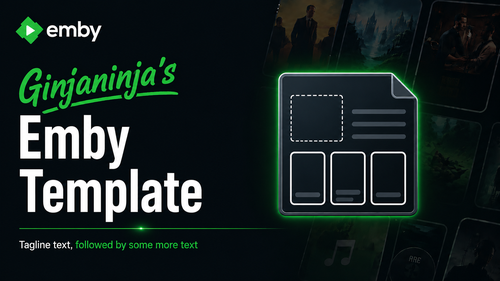
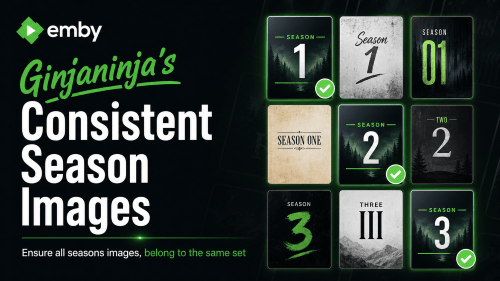
Readme and thumb

diff --git a/src/ConsistentTVSeasonImages/Services/ProviderImageHelperService.cs b/src/ConsistentTVSeasonImages/Services/ProviderImageHelperService.cs
@@ -62,12 +62,12 @@ namespace ConsistentTVSeasonImages.Services
         private const int MaximumProviderAttempts = 3;
         private readonly ILibraryManager library; private readonly IProviderManager providers; private readonly IFileSystem fileSystem; private readonly IImageProcessor imageProcessor; private readonly IServerConfigurationManager configuration; private readonly IJsonSerializer json; private readonly ILogger logger; private readonly string cachePath;
         public ProviderImageHelperService(ILibraryManager library, IProviderManager providers, IFileSystem fileSystem, IImageProcessor imageProcessor, IServerConfigurationManager configuration, IApplicationPaths applicationPaths, IJsonSerializer json, ILogManager logs)
-        { this.library = library; this.providers = providers; this.fileSystem = fileSystem; this.imageProcessor = imageProcessor; this.configuration = configuration; this.json = json; cachePath = Path.Combine(applicationPaths.CachePath, "consistent-tv-season-images", "provider-images"); logger = Plugin.Logger ?? logs.GetLogger("Consistent TV Season Images"); logger.Info("ProviderImageHelperService instantiated. Provider cache={0}, LifetimeHours={1}", cachePath, CacheLifetime.TotalHours); }
+        { this.library = library; this.providers = providers; this.fileSystem = fileSystem; this.imageProcessor = imageProcessor; this.configuration = configuration; this.json = json; cachePath = Path.Combine(applicationPaths.CachePath, "consistent-tv-season-images", "provider-images"); logger = Plugin.Logger ?? logs.GetLogger("Consistent TV Season Images"); logger.Debug("ProviderImageHelperService instantiated. Provider cache={0}, LifetimeHours={1}", cachePath, CacheLifetime.TotalHours); }
 
         public object Get(DiscoverRequest request)
         {
             var filter = (request.Filter ?? "all").ToLowerInvariant(); var search = request.Search ?? string.Empty;
-            logger.Info("Discover started. Filter={0}, Search={1}", filter, search);
+            logger.Debug("Discover started. Filter={0}, Search={1}", filter, search);
             try
             {
                 var queried = library.GetItemList(new InternalItemsQuery { IncludeItemTypes = new[] { typeof(Series).Name }, Recursive = true, IsVirtualItem = false, HasPath = true }).OfType<Series>().ToList();
@@ -76,7 +76,7 @@ namespace ConsistentTVSeasonImages.Services
                 var result = queried.Where(s => !string.IsNullOrEmpty(s.Path) && string.IsNullOrEmpty(s.ExternalId) && s.Name.IndexOf(search, StringComparison.OrdinalIgnoreCase) >= 0)
                     .Select(s => { var seasons = GetSeasons(s); return new ShowResult { Id = s.GetClientId(), Name = s.Name, MissingPoster = seasons.Any(x => !x.HasImage(ImageType.Primary, 0)), MissingBanner = seasons.Any(x => !x.HasImage(ImageType.Banner, 0)) }; })
                     .Where(s => filter == "all" || filter == "missingposters" && s.MissingPoster || filter == "missingbanners" && s.MissingBanner).OrderBy(s => s.Name).ToList();
-                logger.Info("Discover completed. Queried={0}, Excluded={1}, Returned={2}", queried.Count, excluded.Count, result.Count);
+                logger.Debug("Discover completed. Queried={0}, Excluded={1}, Returned={2}", queried.Count, excluded.Count, result.Count);
                 return result;
             }
             catch (Exception ex) { logger.ErrorException("Discover failed. Filter={0}, Search={1}", ex, filter, search); throw; }
@@ -86,19 +86,19 @@ namespace ConsistentTVSeasonImages.Services
         {
             var fetchTimer = Stopwatch.StartNew();
             var correlationId = Guid.NewGuid().ToString("N").Substring(0, 12);
-            logger.Info("Fetch started. CorrelationId={0}, SeriesId={1}", correlationId, request.SeriesId);
+            logger.Debug("Fetch started. CorrelationId={0}, SeriesId={1}", correlationId, request.SeriesId);
             try
             {
                 var series = library.GetItemById(request.SeriesId) as Series; if (series == null) throw new ArgumentException("Series not found.");
                 var seasons = GetSeasons(series).OrderBy(s => s.IndexNumber).ToArray();
-                logger.Info("Fetch resolved series. Name={0}, Path={1}, Seasons={2}, ProviderIds={3}", series.Name, series.Path ?? "(null)", seasons.Length, string.Join(",", series.ProviderIds.Select(x => x.Key + "=" + x.Value)));
+                logger.Debug("Fetch resolved series. Name={0}, Path={1}, Seasons={2}, ProviderIds={3}", series.Name, series.Path ?? "(null)", seasons.Length, string.Join(",", series.ProviderIds.Select(x => x.Key + "=" + x.Value)));
                 LogAvailableProviders("Series", series);
                 var result = new FetchResult { SeriesId = request.SeriesId, Name = series.Name, CorrelationId = correlationId, Seasons = new List<SeasonResult>() };
                 var cacheHits = 0; var cacheMisses = 0; var providerMilliseconds = 0L;
                 foreach (var season in seasons)
                 {
                     var seasonTimer = Stopwatch.StartNew();
-                    logger.Info("Fetch season identity. Season={0}, Id={1}, SeriesId={2}, ProviderIds={3}, ImageInfos={4}", season.Name, season.GetClientId(), season.SeriesId, string.Join(",", season.ProviderIds.Select(x => x.Key + "=" + x.Value)), string.Join(";", season.ImageInfos.Select(x => x.Type + "=" + x.Path)));
+                    logger.Debug("Fetch season identity. Season={0}, Id={1}, SeriesId={2}, ProviderIds={3}, ImageInfos={4}", season.Name, season.GetClientId(), season.SeriesId, string.Join(",", season.ProviderIds.Select(x => x.Key + "=" + x.Value)), string.Join(";", season.ImageInfos.Select(x => x.Type + "=" + x.Path)));
                     LogAvailableProviders("Season", season);
                     var fetched = await GetRemoteImages(season, request.IncludeAllLanguages, correlationId).ConfigureAwait(false);
                     cacheHits += fetched.CacheHits; cacheMisses += fetched.CacheMisses; providerMilliseconds += fetched.ProviderMilliseconds;
@@ -106,12 +106,12 @@ namespace ConsistentTVSeasonImages.Services
                     var banners = fetched.Images.Where(x => x.Type == ImageType.Banner).ToList();
                     var posterResults = Map(posters, ImageType.Primary); var bannerResults = Map(banners, ImageType.Banner);
                     posterResults = DistinctImages(posterResults); bannerResults = DistinctImages(bannerResults);
-                    logger.Info("Fetch season completed. Season={0}, Id={1}, HasCurrentPoster={2}, HasCurrentBanner={3}, Posters={4}, Banners={5}, ElapsedMs={6}, CacheHits={7}, CacheMisses={8}", season.Name, season.GetClientId(), season.HasImage(ImageType.Primary, 0), season.HasImage(ImageType.Banner, 0), posterResults.Count, bannerResults.Count, seasonTimer.ElapsedMilliseconds, fetched.CacheHits, fetched.CacheMisses);
+                    logger.Debug("Fetch season completed. Season={0}, Id={1}, HasCurrentPoster={2}, HasCurrentBanner={3}, Posters={4}, Banners={5}, ElapsedMs={6}, CacheHits={7}, CacheMisses={8}", season.Name, season.GetClientId(), season.HasImage(ImageType.Primary, 0), season.HasImage(ImageType.Banner, 0), posterResults.Count, bannerResults.Count, seasonTimer.ElapsedMilliseconds, fetched.CacheHits, fetched.CacheMisses);
                     LogProviderCounts(season, posterResults.Concat(bannerResults));
                     var seasonPoster = LocalImageUrl(season, ImageType.Primary); var seasonBanner = LocalImageUrl(season, ImageType.Banner);
                     var posterTag = ImageTag(season, ImageType.Primary); var bannerTag = ImageTag(season, ImageType.Banner);
-                    logger.Info("Current Emby image URL. Season={0}, Id={1}, Type=Primary, Url={2}", season.Name, season.GetClientId(), CurrentImageUrl(season, ImageType.Primary, posterTag) ?? "(none)");
-                    logger.Info("Current Emby image URL. Season={0}, Id={1}, Type=Banner, Url={2}", season.Name, season.GetClientId(), CurrentImageUrl(season, ImageType.Banner, bannerTag) ?? "(none)");
+                    logger.Debug("Current Emby image URL. Season={0}, Id={1}, Type=Primary, Url={2}", season.Name, season.GetClientId(), CurrentImageUrl(season, ImageType.Primary, posterTag) ?? "(none)");
+                    logger.Debug("Current Emby image URL. Season={0}, Id={1}, Type=Banner, Url={2}", season.Name, season.GetClientId(), CurrentImageUrl(season, ImageType.Banner, bannerTag) ?? "(none)");
                     result.Seasons.Add(new SeasonResult { Id = season.GetClientId(), Name = season.Name, Number = season.IndexNumber, CurrentPoster = seasonPoster, CurrentBanner = seasonBanner, CurrentPosterItemId = seasonPoster == null ? null : season.GetClientId(), CurrentBannerItemId = seasonBanner == null ? null : season.GetClientId(), CurrentPosterTag = posterTag, CurrentBannerTag = bannerTag, Posters = posterResults, Banners = bannerResults, ProviderDiagnostics = fetched.Diagnostics });
                 }
                 logger.Info("Fetch completed. CorrelationId={0}, Series={1}, Seasons={2}, TotalPosters={3}, TotalBanners={4}, ElapsedMs={5}, ProviderElapsedMs={6}, CacheHits={7}, CacheMisses={8}", correlationId, series.Name, result.Seasons.Count, result.Seasons.Sum(x => x.Posters.Count), result.Seasons.Sum(x => x.Banners.Count), fetchTimer.ElapsedMilliseconds, providerMilliseconds, cacheHits, cacheMisses);
@@ -122,14 +122,14 @@ namespace ConsistentTVSeasonImages.Services
 
         public async Task<object> Post(ApplyRequest request)
         {
-            logger.Info("Apply started. SeasonId={0}, ImageType={1}, Url={2}, SourceItemId={3}", request.SeasonId, request.ImageType, request.ImageUrl ?? "(null)", request.SourceItemId ?? "(null)");
-            try { var season = library.GetItemById(request.SeasonId) as Season; if (season == null) throw new ArgumentException("Season not found."); ImageType type; var name = request.ImageType == "Poster" ? "Primary" : request.ImageType; if (!Enum.TryParse(name, true, out type) || type != ImageType.Primary && type != ImageType.Banner) throw new ArgumentException("ImageType must be Poster or Banner."); var source = request.ImageUrl; if (!string.IsNullOrEmpty(request.SourceItemId)) { var sourceItem = library.GetItemById(request.SourceItemId); var sourceInfo = sourceItem?.GetImageInfo(type, 0); if (sourceInfo == null || string.IsNullOrEmpty(sourceInfo.Path) || !fileSystem.FileExists(sourceInfo.Path)) throw new ArgumentException("The selected current source image is unavailable."); source = sourceInfo.Path; logger.Info("Apply resolved local current source. SourceItem={0}, Type={1}, Path={2}", sourceItem.Name, type, source); } else { Uri uri; if (!Uri.TryCreate(source, UriKind.Absolute, out uri) || uri.Scheme != "https" && uri.Scheme != "http") throw new ArgumentException("A valid HTTP(S) image URL is required."); } await providers.SaveImage(season, library.GetLibraryOptions(season), source, type, 0, new long[0], new DirectoryService(logger, fileSystem), true, CancellationToken.None).ConfigureAwait(false); season.UpdateToRepository(ItemUpdateType.ImageUpdate); logger.Info("Apply completed. Season={0}, Id={1}, ImageType={2}", season.Name, request.SeasonId, type); return new ApplyResult { Success = true, SeasonId = request.SeasonId, ImageType = request.ImageType }; }
+            logger.Debug("Apply started. SeasonId={0}, ImageType={1}, Url={2}, SourceItemId={3}", request.SeasonId, request.ImageType, request.ImageUrl ?? "(null)", request.SourceItemId ?? "(null)");
+            try { var season = library.GetItemById(request.SeasonId) as Season; if (season == null) throw new ArgumentException("Season not found."); ImageType type; var name = request.ImageType == "Poster" ? "Primary" : request.ImageType; if (!Enum.TryParse(name, true, out type) || type != ImageType.Primary && type != ImageType.Banner) throw new ArgumentException("ImageType must be Poster or Banner."); var source = request.ImageUrl; if (!string.IsNullOrEmpty(request.SourceItemId)) { var sourceItem = library.GetItemById(request.SourceItemId); var sourceInfo = sourceItem?.GetImageInfo(type, 0); if (sourceInfo == null || string.IsNullOrEmpty(sourceInfo.Path) || !fileSystem.FileExists(sourceInfo.Path)) throw new ArgumentException("The selected current source image is unavailable."); source = sourceInfo.Path; logger.Debug("Apply resolved local current source. SourceItem={0}, Type={1}, Path={2}", sourceItem.Name, type, source); } else { Uri uri; if (!Uri.TryCreate(source, UriKind.Absolute, out uri) || uri.Scheme != "https" && uri.Scheme != "http") throw new ArgumentException("A valid HTTP(S) image URL is required."); } await providers.SaveImage(season, library.GetLibraryOptions(season), source, type, 0, new long[0], new DirectoryService(logger, fileSystem), true, CancellationToken.None).ConfigureAwait(false); season.UpdateToRepository(ItemUpdateType.ImageUpdate); logger.Info("Apply completed. Season={0}, Id={1}, ImageType={2}", season.Name, request.SeasonId, type); return new ApplyResult { Success = true, SeasonId = request.SeasonId, ImageType = request.ImageType }; }
             catch (Exception ex) { logger.ErrorException("Apply failed. SeasonId={0}, ImageType={1}, Url={2}", ex, request.SeasonId, request.ImageType, request.ImageUrl); throw; }
         }
 
         public object Delete(RemoveImageRequest request)
         {
-            logger.Info("Remove image started. SeasonId={0}, ImageType={1}", request.SeasonId, request.ImageType);
+            logger.Debug("Remove image started. SeasonId={0}, ImageType={1}", request.SeasonId, request.ImageType);
             try
             {
                 var season = library.GetItemById(request.SeasonId) as Season;
@@ -176,7 +176,7 @@ namespace ConsistentTVSeasonImages.Services
                 diagnostic.BannerCount = fetched.Images.Count(x => SameProvider(x.ProviderName, diagnostic.Provider) && x.Type == ImageType.Banner);
                 if ((diagnostic.Status == "Success" || diagnostic.Status == "Cached") && diagnostic.PosterCount + diagnostic.BannerCount == 0) { diagnostic.Status = "Empty"; diagnostic.Message = includeAllLanguages ? "Provider returned no images." : "Provider returned no images matching the selected language."; }
             }
-            logger.Info("Provider image aggregation completed. Season={0}, Id={1}, IncludeAllLanguages={2}, EffectiveLanguage={3}, BeforeLanguageFilter={4}, AfterLanguageFilter={5}, ProviderLanguages={6}, Providers={7}, CacheHits={8}, CacheMisses={9}", season.Name, season.GetClientId(), includeAllLanguages, language ?? "(none)", beforeFilter, fetched.Images.Count, providerLanguages, ProviderSummary(fetched.Images), fetched.CacheHits, fetched.CacheMisses);
+            logger.Debug("Provider image aggregation completed. Season={0}, Id={1}, IncludeAllLanguages={2}, EffectiveLanguage={3}, BeforeLanguageFilter={4}, AfterLanguageFilter={5}, ProviderLanguages={6}, Providers={7}, CacheHits={8}, CacheMisses={9}", season.Name, season.GetClientId(), includeAllLanguages, language ?? "(none)", beforeFilter, fetched.Images.Count, providerLanguages, ProviderSummary(fetched.Images), fetched.CacheHits, fetched.CacheMisses);
             return fetched;
         }
         private async Task<ProviderFetchResult> GetRegisteredProviderImages(BaseItem item, MediaBrowser.Model.Configuration.LibraryOptions libraryOptions, Func<IRemoteImageProvider, bool> selector, string selectionName, string correlationId)
@@ -192,7 +192,7 @@ namespace ConsistentTVSeasonImages.Services
             var remoteProviders = registered.Cast<object>().OfType<IRemoteImageProvider>().ToArray();
             logger.Debug("Registered remote-provider inventory. Item={0}, ItemType={1}, Count={2}, Providers={3}", item.Name, item.GetType().FullName, remoteProviders.Length, string.Join(";", remoteProviders.Select(x => x.Name + "|" + x.GetType().FullName)));
             var selectedProviders = remoteProviders.Where(selector).ToArray();
-            logger.Info("Registered image-provider selection. Selection={0}, Item={1}, Matches={2}, Providers={3}", selectionName, item.Name, selectedProviders.Length, string.Join(",", selectedProviders.Select(x => x.Name + "|" + x.GetType().FullName)));
+            logger.Debug("Registered image-provider selection. Selection={0}, Item={1}, Matches={2}, Providers={3}", selectionName, item.Name, selectedProviders.Length, string.Join(",", selectedProviders.Select(x => x.Name + "|" + x.GetType().FullName)));
             foreach (var provider in selectedProviders)
             {
                 ProviderDiagnostic diagnostic = null;
@@ -217,7 +217,7 @@ namespace ConsistentTVSeasonImages.Services
                         {
                             lastError = ex;
                             var transient = IsTransient(ex);
-                            logger.Warn("Provider attempt failed. CorrelationId={0}, Item={1}, Provider={2}, Attempt={3}, Transient={4}, Error={5}", correlationId, item.Name, provider.Name, attempt, transient, FlattenMessage(ex));
+                            logger.Debug("Provider attempt failed. CorrelationId={0}, Item={1}, Provider={2}, Attempt={3}, Transient={4}, Error={5}", correlationId, item.Name, provider.Name, attempt, transient, FlattenMessage(ex));
                             if (!transient || attempt == MaximumProviderAttempts || ex is ProviderCircuitOpenException) break;
                             var retryAfter = TryGetRetryAfterSeconds(ex);
                             await Task.Delay(TimeSpan.FromSeconds(retryAfter.HasValue ? Math.Min(120, Math.Max(1, retryAfter.Value)) : attempt == 1 ? 1 : 3)).ConfigureAwait(false);
@@ -228,7 +228,8 @@ namespace ConsistentTVSeasonImages.Services
                     {
                         result.Images.AddRange(matching); await WriteCache(item, provider, libraryOptions, matching).ConfigureAwait(false);
                         diagnostic.Status = matching.Count == 0 ? "Empty" : "Success"; diagnostic.Message = matching.Count == 0 ? "Provider returned no images." : "Provider responded normally.";
-                        logger.Info("Registered provider invocation completed. CorrelationId={0}, Item={1}, Provider={2}, Results={3}, Attempts={4}, ElapsedMs={5}", correlationId, item.Name, provider.Name, matching.Count, diagnostic.Attempts, timer.ElapsedMilliseconds);
+                        if (diagnostic.Attempts > 1) logger.Info("Provider recovered after retry. CorrelationId={0}, Item={1}, Provider={2}, Results={3}, Attempts={4}, ElapsedMs={5}", correlationId, item.Name, provider.Name, matching.Count, diagnostic.Attempts, timer.ElapsedMilliseconds);
+                        else logger.Debug("Registered provider invocation completed. CorrelationId={0}, Item={1}, Provider={2}, Results={3}, Attempts={4}, ElapsedMs={5}", correlationId, item.Name, provider.Name, matching.Count, diagnostic.Attempts, timer.ElapsedMilliseconds);
                     }
                     else
                     {
@@ -420,12 +421,12 @@ namespace ConsistentTVSeasonImages.Services
         {
             var available = providers.GetRemoteImageProviderInfo(item, library.GetLibraryOptions(item)).ToArray();
             if (available.Length == 0) { logger.Warn("No remote image fetchers registered. ItemKind={0}, Name={1}, Id={2}", itemKind, item.Name, item.GetClientId()); return; }
-            foreach (var provider in available) logger.Info("Remote image fetcher available. ItemKind={0}, Name={1}, Id={2}, Fetcher={3}, Supported={4}", itemKind, item.Name, item.GetClientId(), provider.Name, string.Join(",", provider.SupportedImages));
+            foreach (var provider in available) logger.Debug("Remote image fetcher available. ItemKind={0}, Name={1}, Id={2}, Fetcher={3}, Supported={4}", itemKind, item.Name, item.GetClientId(), provider.Name, string.Join(",", provider.SupportedImages));
         }
         private string ImageTag(BaseItem item, ImageType type) { var info = item.GetImageInfo(type, 0); return info == null ? null : imageProcessor.GetImageCacheTag(item, info); }
         private static string CurrentImageUrl(BaseItem item, ImageType type, string tag) { return item.HasImage(type, 0) ? "/Items/" + item.GetClientId() + "/Images/" + type + "?tag=" + Uri.EscapeDataString(tag ?? string.Empty) + "&quality=90" : null; }
         private static List<ImageResult> DistinctImages(IEnumerable<ImageResult> images) { return images.Where(x => !string.IsNullOrWhiteSpace(x.Url)).GroupBy(x => x.Url, StringComparer.OrdinalIgnoreCase).Select(x => x.First()).ToList(); }
-        private void LogProviderCounts(Season season, IEnumerable<ImageResult> images) { foreach (var group in images.GroupBy(x => new { x.Provider, x.Type })) logger.Info("Fetcher result. Season={0}, Fetcher={1}, Type={2}, Count={3}", season.Name, group.Key.Provider ?? "(unknown)", group.Key.Type, group.Count()); }
+        private void LogProviderCounts(Season season, IEnumerable<ImageResult> images) { foreach (var group in images.GroupBy(x => new { x.Provider, x.Type })) logger.Debug("Fetcher result. Season={0}, Fetcher={1}, Type={2}, Count={3}", season.Name, group.Key.Provider ?? "(unknown)", group.Key.Type, group.Count()); }
         private static string LocalImageUrl(BaseItem item, ImageType type) { return item.HasImage(type, 0) ? "/Items/" + item.GetClientId() + "/Images/" + type : null; }
         private static List<ImageResult> Map(IEnumerable<RemoteImageInfo> images, ImageType type) { return images.Where(i => i.Type == type).Select(i => new ImageResult { Url = i.Url, ThumbnailUrl = i.ThumbnailUrl ?? i.Url, Type = type == ImageType.Primary ? "Poster" : "Banner", Provider = i.ProviderName, Width = i.Width, Height = i.Height }).ToList(); }
     }

diff --git a/src/ConsistentTVSeasonImages/Plugin.cs b/src/ConsistentTVSeasonImages/Plugin.cs
@@ -19,7 +19,7 @@ namespace ConsistentTVSeasonImages
         {
             Instance = this;
             Logger = logs.GetLogger(Name);
-            Logger.Info("Plugin {0} version {1} initialized. Assembly: {2}", Name, GetType().Assembly.GetName().Version, GetType().Assembly.FullName);
+            Logger.Debug("Plugin {0} version {1} initialized. Assembly: {2}", Name, GetType().Assembly.GetName().Version, GetType().Assembly.FullName);
         }
 
         public static Plugin Instance { get; private set; }
@@ -32,14 +32,15 @@ namespace ConsistentTVSeasonImages
 
         public IEnumerable<PluginPageInfo> GetPages()
         {
-            Logger.Info("Registering web resources ProviderImageHelper and ProviderImageHelperJs.");
+            Logger.Debug("Registering web resources ProviderImageHelper and ProviderImageHelperJs.");
             return new[]
             {
                 new PluginPageInfo
                 {
                     Name = "ProviderImageHelper",
                     EmbeddedResourcePath = GetType().Namespace + ".Web.ProviderImageHelper.html",
-                    EnableInMainMenu = true
+                    EnableInMainMenu = true,
+                    MenuIcon = "compare"
                 },
                 new PluginPageInfo
                 {

diff --git a/Readme.md b/Readme.md
@@ -1,33 +1,45 @@
-# ConsistentTVSeasonImages
+# Consistent TV Season Images
 
-A standardized, automation-ready repository template for rapidly scaffolding Emby Server plugins. 
+Consistent TV Season Images is an Emby Server plugin for reviewing and standardising poster and banner artwork across every season of a TV series.
 
-## Features
+Instead of editing each season separately, the plugin presents the current artwork and the available images from Emby's registered TheMovieDB and TheTVDB providers in one comparison workspace. This makes it easier to choose a visually consistent set and apply it across the series.
 
-- Uses each library's preferred image language by default (while retaining language-neutral artwork).
-- Caches provider image metadata for 1 hour; use **Clear provider cache** to force a fresh fetch.
-- Reports partial provider failures in the image pools, retries transient failures with backoff, and can fall back to stale cached metadata.
-- Logs total, season, and individual provider timings together with cache hit/miss counts.
-* **Zero-Configuration Scaffolding**: Uses automated GitHub Actions to rename namespaces, solution files, and projects instantly upon repository creation.
-* **.gitignore prepopulated**: To ensure obj, bin and .vs folders are excluded from repository
-* **setup.bat**: instantiates a pre-commit in `.git/hooks/` so any commit with "[bump]" at the END of description increases the the version number in .csproj.
-* **Working Plugin with thumbnail**: Ready to compile plugin with thumbnail, pluginui configuration page with autopostback (autosave) and task.
-* **launchSettings.json**: Ready to launch Emby with breakpoints for debugging
-* **Post Build Event**: Ready to copy compiled code to Emby plugins folder in current users %appdata%.
-* **Supress dependency file**: No value in copying this into plugins folder.
+## What it does
 
-## How to Instantiate a New Plugin
+- Finds TV shows in local Emby libraries and highlights shows with missing season posters or banners.
+- Displays every season of a selected series together with its current poster and banner.
+- Collects remote season artwork from the TheMovieDB and TheTVDB image providers already registered with Emby.
+- Uses the library's preferred image or metadata language by default, while retaining language-neutral artwork.
+- Can show artwork in all available languages when a wider selection is needed.
+- Provides poster-only, banner-only, and combined layouts.
+- Lets administrators drag candidate images into comparison columns to plan a consistent set before making changes.
+- Applies an individual image immediately or applies the selected comparison column across all seasons.
+- Supports multiple comparison columns and multiple season panes for evaluating alternatives.
+- Allows the current poster or banner to be removed from a season.
+- Shows provider status, empty results, failures, and retry controls directly in the image pools.
 
-This template is completely automated via the cloud. You do not need to use `dotnet new` or run local renaming commands.
+## Provider caching and reliability
 
-1. Click the green **Use this template** button at the top of this GitHub page.
-2. Select **Create a new repository**.
-3. Name your repository using your new plugin's name (e.g., `MyNewPlugin`).
-4. Click **Create repository**.
+Provider image metadata is cached for one hour to make repeated comparisons faster and reduce requests to external services. The cache can be cleared from the plugin page when a fresh provider lookup is required.
 
-### What happens in the background:
-GitHub will instantly spin up a cloud action, read your repository name, and automatically update your folder paths, `.csproj`/`.slnx` filenames, and C# namespaces to match perfectly.
+Provider requests are rate-limited, have a 30-second timeout, and retry transient failures with backoff. If a provider is temporarily unavailable, the plugin can display stale cached results where available. Fetch timings, cache activity, provider results, and correlation IDs are written to the Emby log for troubleshooting.
 
-5. Open **GitHub Desktop** and clone your brand new repository down to your computer.
-6. Run \repositoryroot\setup.bat to instantiate the [bump] pre-commit hook.
-7. Launch the solution file inside `src/` and start coding immediately!
+## Using the plugin
+
+1. Open **Consistent TV Season Images** from the Emby administration interface.
+2. Filter the library or search for a show, then select **Load show**.
+3. Choose whether to display posters, banners, or both. Enable all languages if required.
+4. Review the current artwork and the provider image pools for each season.
+5. Apply a candidate directly, or drag candidates into a comparison column.
+6. Select a completed comparison column and use **Apply All** to update its populated season images.
+
+Applying or removing artwork changes the corresponding season image in the Emby library. Empty cells are skipped by **Apply All**.
+
+## Requirements
+
+- Emby Server 4.9-compatible environment
+- TV series with season items in a local Emby library
+- Working TheMovieDB and/or TheTVDB metadata provider configuration in Emby
+- An Emby administrator account to access the plugin page and its API
+
+The plugin uses Emby's existing provider registrations and library language preferences; it does not run a separate metadata service.
